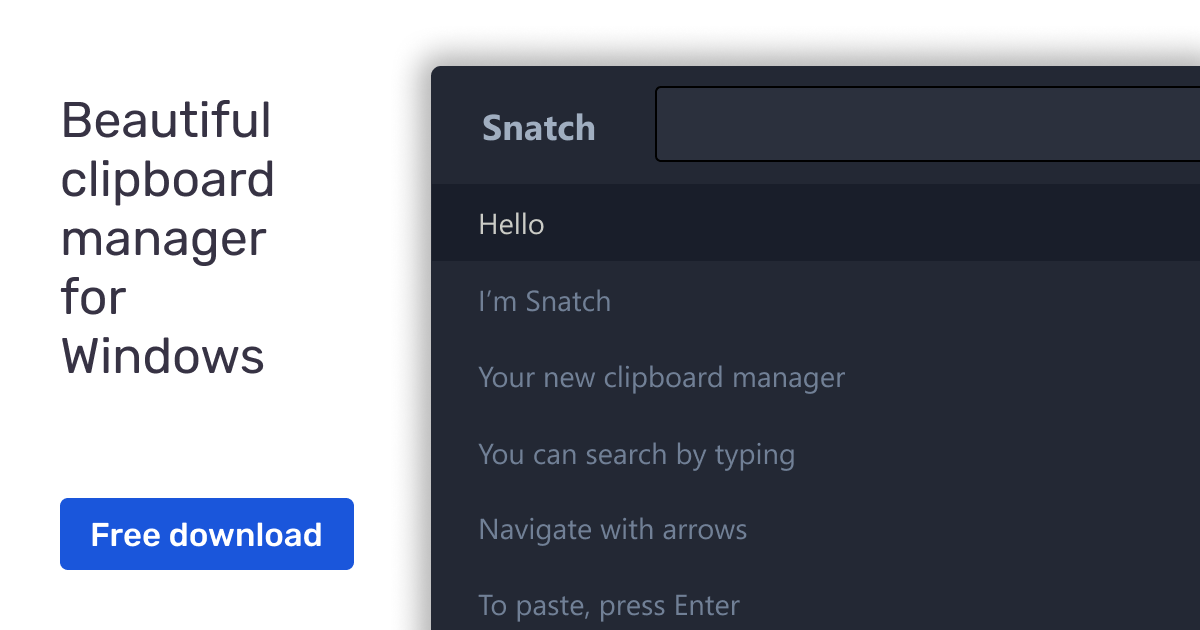
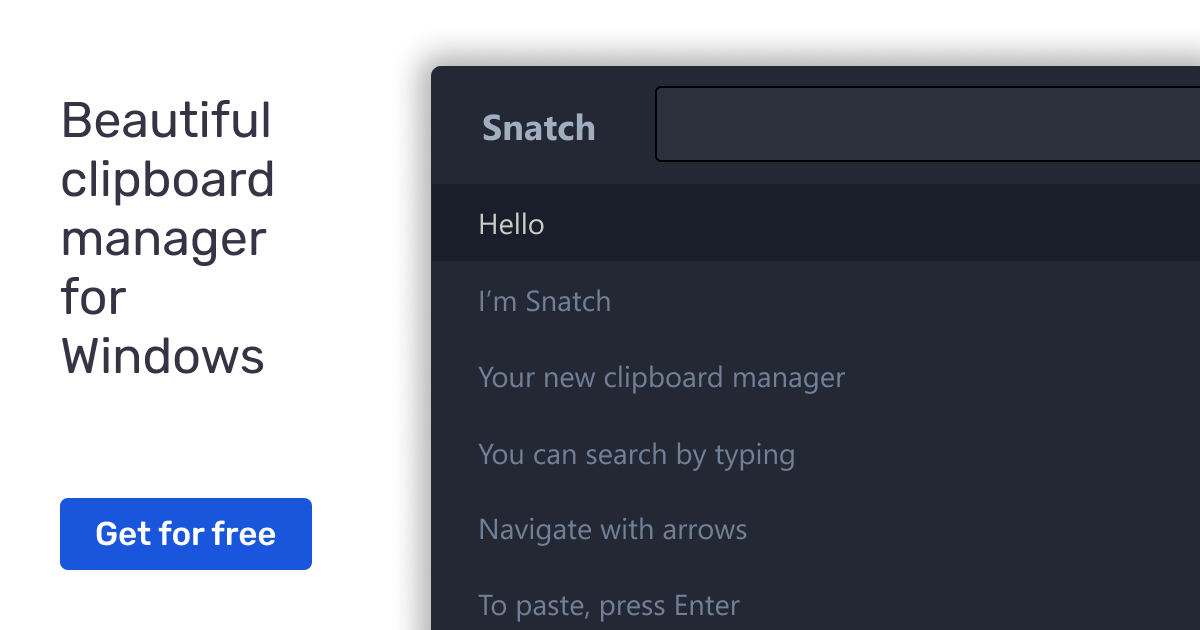
chore: update og image

Changed region(s): [[0.0617, 0.7841, 0.3083, 0.9048]]

diff --git a/src/index.html b/src/index.html
@@ -25,7 +25,7 @@
     />
     <meta
       property="og:image"
-      content="https://snatch.kasper.io/og-image.png?v=1.1"
+      content="https://snatch.kasper.io/og-image.png?v=1.2"
     />
     <meta property="og:image:width" content="1200" />
     <meta property="og:image:height" content="630" />
